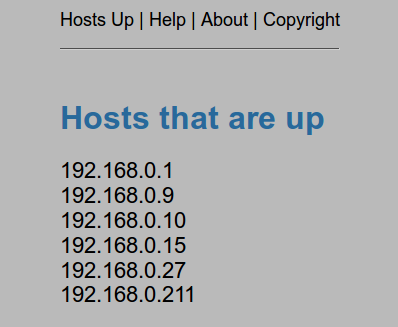
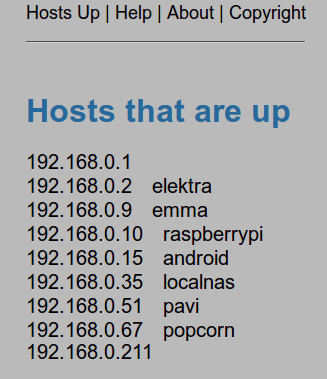
Added hostnames and decreased font size a bit

Changed region(s): [[0.0612, 0.2446, 0.8869, 0.948], [0.0612, 0.0, 0.948, 0.0917]]

diff --git a/hosts_up.css b/hosts_up.css
@@ -13,7 +13,7 @@ h1
 p
 {
     font-family:"Arial";
-    font-size:22px;
+    font-size:20px;
 }
 
 p.top

diff --git a/index.php b/index.php
@@ -8,21 +8,26 @@ $hosts = shell_exec("nmap $network -sn");
 
 // Regexp to match any IP-number
 preg_match_all("/[0-9]{1,3}\.[0-9]{1,3}\.[0-9]{1,3}\.[0-9]{1,3}/", $hosts, 
-    $out);
+    $ip);
+
+// Match hostnames (only the host part, up to the first dot)
+preg_match_all("/(?<=for\s)([a-z]*)/", $hosts, $name);
+
 
 print "<h1>Hosts that are up</h1>\n";
 print "<p>\n";
 
-foreach ($out[0] as $i)
+$counter = 0;
+foreach ($ip[0] as $i)
 {
-    print "<a href=\"scan.php?host=$i\">$i</a> <br />\n";
+    print "<a href=\"scan.php?host=$i\">$i</a>&emsp;" . $name["0"]["$counter"] . 
+    "<br />\n";
+    $counter++;
 }
 
 print "</p>\n";
-
 ?>
 
 </div>
-
 </body>
 </html>

diff --git a/help.php b/help.php
@@ -6,7 +6,7 @@ include ("htmlblock.html");
 <p class="text">
 When entering the Hosts Up webpage it scans the network specified in the
 index.php file ($network variable) and displays all live hosts. The scan is a
-simple ping sweep performed by Nmap. When a host is clicked it is automatically 
+simple ping sweep performed by Nmap. When a IP-number is clicked it is automatically 
 port scanned and the results show up on the webpage. That's pretty much all
 there is to it.
 
